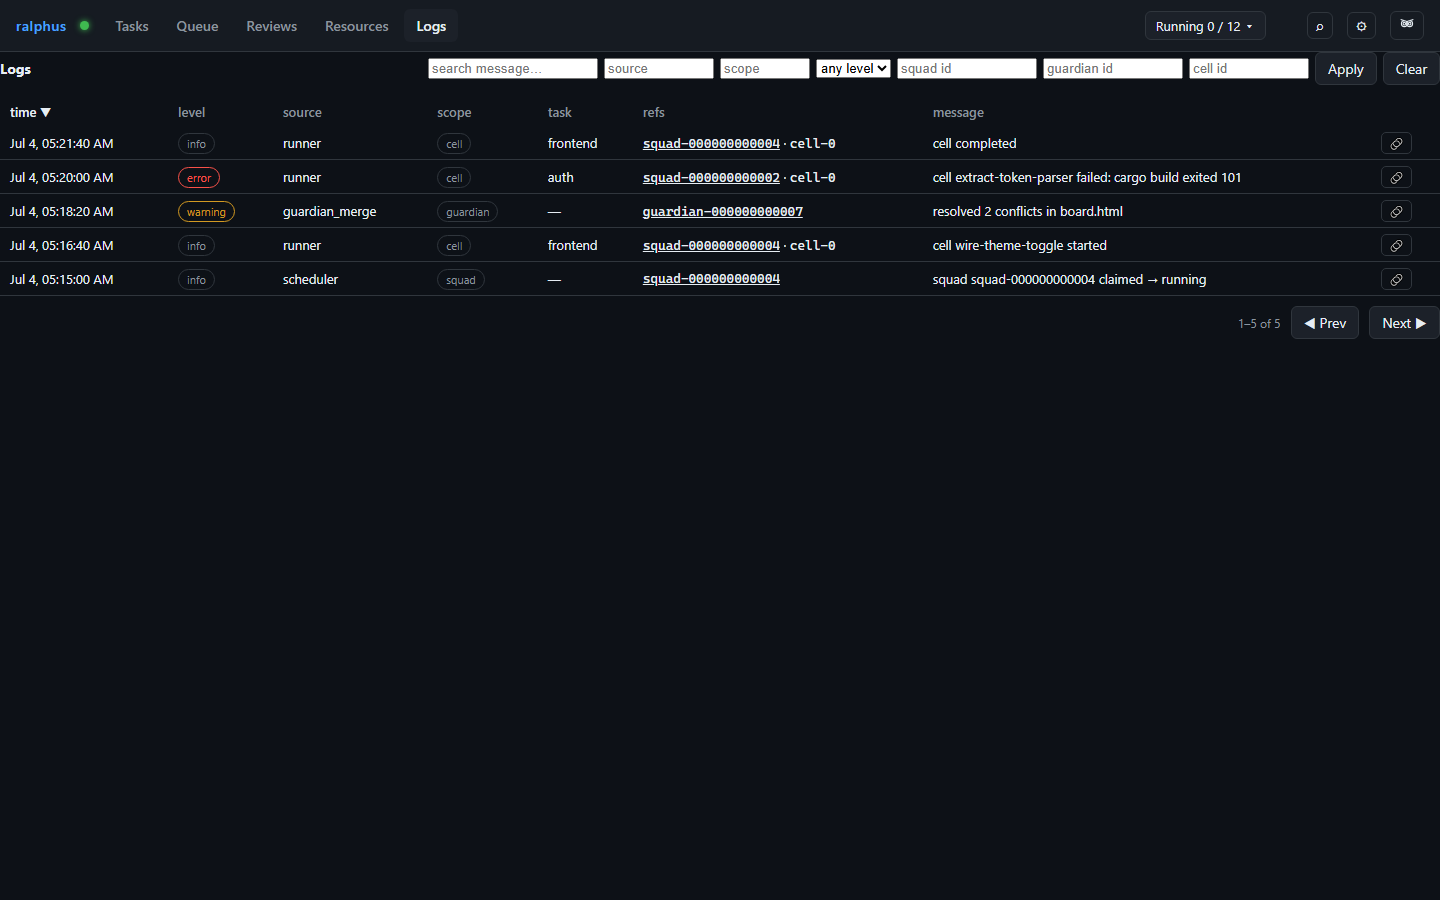
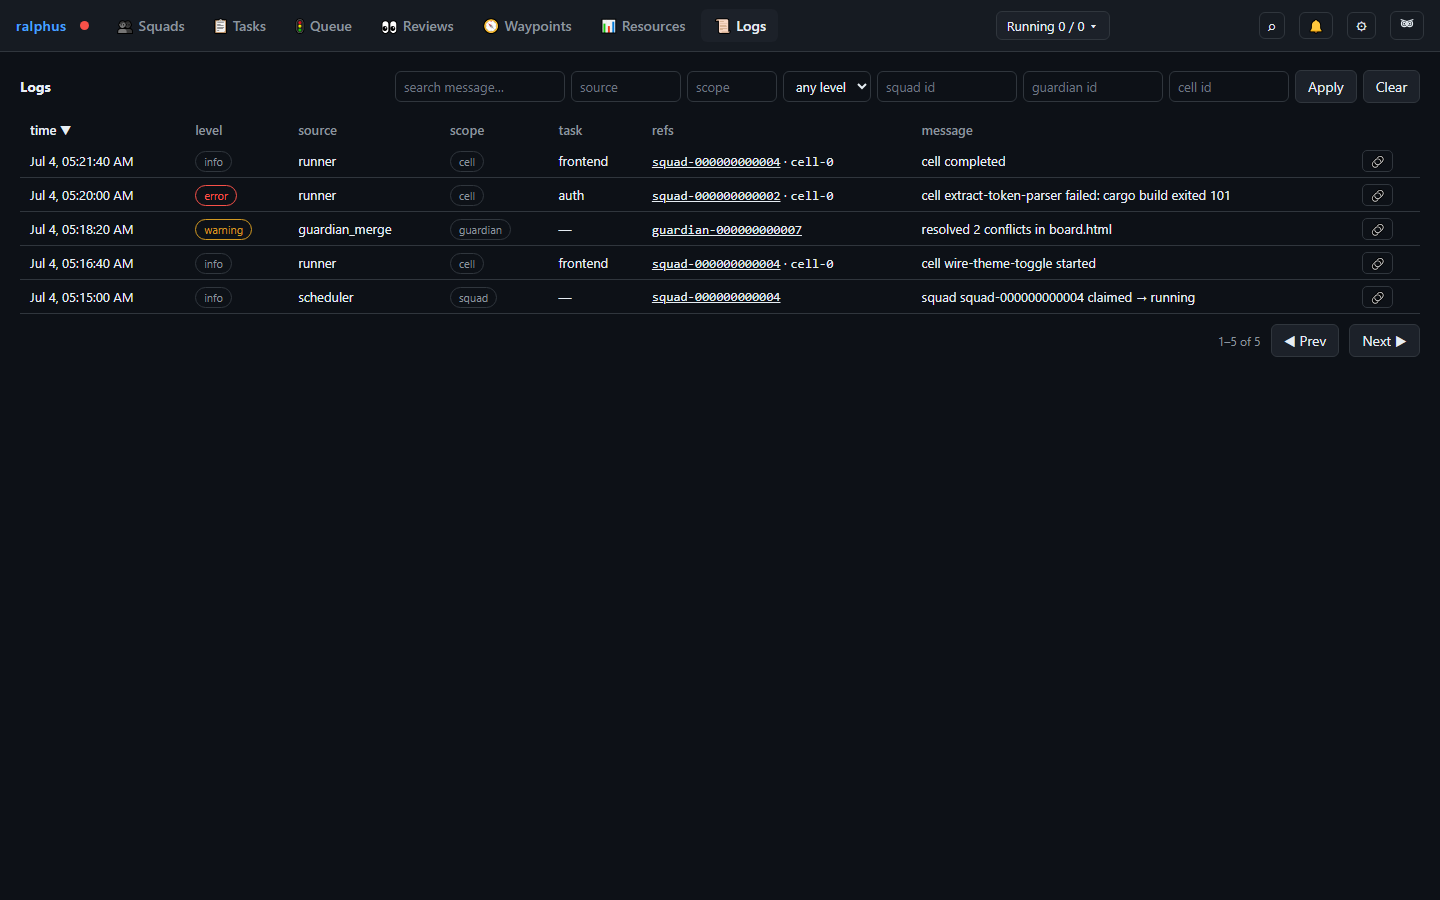
style(board): one shared look for inputs/buttons; document it; regen screenshots
Bare inputs/selects/textareas and class-less or `.primary` buttons fell back to
the browser's white-with-grey-text defaults (Logs filters, Machines, Triage,
Users, Secrets register rows). Add zero-specificity base rules matching the
Tasks tab, give the admin/list pages the shared page gutter, and drop inline
per-element overrides in the Triage tab.

Document the rule in docs/colors.md ("Form controls & buttons") and
librarian/AGENTS.md. Fix docs-screenshot drift (Tasks needs /api/task-index,
Presets selector) and regenerate all screenshots.

diff --git a/librarian/assets/board/75-projects-machines.js b/librarian/assets/board/75-projects-machines.js
@@ -447,7 +447,7 @@ Work submitted against it will fail — fix the machine or deregister the provid
             <td><span class="proj-name">${esc(p.triage_type)}</span></td>
             <td>${p.count}</td>
             <td><div class="row" style="gap:4px">
-              <input type="number" min="1" step="1" class="mono pool-threshold-input" value="${esc(thresholdVal)}" placeholder="none" style="width:70px;background:var(--bg);border:1px solid var(--border);color:var(--text);border-radius:4px;padding:2px 5px;font-size:12px" data-tip="Draining this pool creates a review once it holds this many cells, in threshold-sized batches -- each full batch becomes its own review and a sub-threshold remainder stays pooled. Clear the field and press Preview to see what removing the count-based trigger would do." />
+              <input type="number" min="1" step="1" class="mono pool-threshold-input" value="${esc(thresholdVal)}" placeholder="none" style="width:70px" data-tip="Draining this pool creates a review once it holds this many cells, in threshold-sized batches -- each full batch becomes its own review and a sub-threshold remainder stays pooled. Clear the field and press Preview to see what removing the count-based trigger would do." />
               <button class="btn" style="padding:2px 8px;font-size:11px" data-click="previewPoolThreshold" data-project="${esc(p.project)}" data-triage-type="${esc(p.triage_type)}" data-tip="Preview what confirming this threshold would drain (non-mutating: nothing is persisted, drained, or reviewed until you Confirm).">Preview</button>
             </div>${confirmLine}</td>
             <td><div class="row" style="gap:4px">${drainButton}</div>${drainLine}</td>
@@ -810,11 +810,11 @@ Work submitted against it will fail — fix the machine or deregister the provid
         return `<div style="margin-top:24px;padding-top:12px;border-top:1px solid var(--border)">
             <div style="font-weight:600;margin-bottom:8px" data-tip="Every cell across every squad that has opted into Triage (triage = true) and hasn't been linked to an actual review yet -- decided at submission, before the cell even runs. A cell appears here the moment its Triage type(s) resolve, and drops off once its pool drains into a review.">Candidates (${triageCandidates.length})</div>
             <div class="row" style="gap:8px;flex-wrap:wrap;margin-bottom:8px">
-              <select id="triage-cand-type" onchange="onTriageCandidateTypeFilter(this.value)" style="background:var(--bg);border:1px solid var(--border);color:var(--text);border-radius:4px;padding:2px 5px;font-size:12px" data-tip="Filter the candidate list down to one Triage type.">
+              <select id="triage-cand-type" onchange="onTriageCandidateTypeFilter(this.value)" data-tip="Filter the candidate list down to one Triage type.">
                 <option value="">All types</option>${typeOptions}
               </select>
               <span class="row" id="triage-project-filter">${triageProjectFilterHtml()}</span>
-              <input id="triage-cand-q" type="text" placeholder="filter by task/cell name…" value="${esc(triageCandidateFilters.q)}" oninput="onTriageCandidateNameFilter(this.value)" style="flex:1;min-width:200px;background:var(--bg);border:1px solid var(--border);color:var(--text);border-radius:4px;padding:2px 5px;font-size:12px" data-tip="Filter the candidate list by task or cell name/id." />
+              <input id="triage-cand-q" type="text" placeholder="filter by task/cell name…" value="${esc(triageCandidateFilters.q)}" oninput="onTriageCandidateNameFilter(this.value)" style="flex:1;min-width:200px" data-tip="Filter the candidate list by task or cell name/id." />
             </div>
             ${table}
           </div>`;
@@ -2476,7 +2476,7 @@ Work submitted against it will fail — fix the machine or deregister the provid
                   <td><span class="proj-name">${esc(p.triage_type)}</span></td>
                   <td>${p.count}</td>
                   <td><div class="row" style="gap:4px">
-                    <input type="number" min="1" step="1" class="mono ptm-threshold-input" id="ptm-threshold-${esc(p.triage_type)}" value="${esc(thresholdVal)}" placeholder="none" style="width:70px;background:var(--bg);border:1px solid var(--border);color:var(--text);border-radius:4px;padding:2px 5px;font-size:12px" data-tip="Draining this pool creates a review once it holds this many ${esc(p.triage_type)} cells for ${esc(projectName)}, in threshold-sized batches (each batch its own review; a sub-threshold remainder stays pooled). Clear the field and press Preview to see what removing the count-based trigger would do." />
+                    <input type="number" min="1" step="1" class="mono ptm-threshold-input" id="ptm-threshold-${esc(p.triage_type)}" value="${esc(thresholdVal)}" placeholder="none" style="width:70px" data-tip="Draining this pool creates a review once it holds this many ${esc(p.triage_type)} cells for ${esc(projectName)}, in threshold-sized batches (each batch its own review; a sub-threshold remainder stays pooled). Clear the field and press Preview to see what removing the count-based trigger would do." />
                     <button class="btn" style="padding:2px 8px;font-size:11px" data-click="previewProjectTriageThreshold" data-triage-type="${esc(p.triage_type)}" data-tip="Preview what confirming this threshold would drain (non-mutating: nothing is persisted, drained, or reviewed until you Confirm).">Preview</button>
                   </div>${confirmLine}</td>
                 </tr>`;

diff --git a/librarian/assets/board.css b/librarian/assets/board.css
@@ -58,6 +58,25 @@
       code, .mono { font-family: ui-monospace, "Cascadia Code", Consolas, monospace; }
       button { font: inherit; cursor: pointer; }
 
+      /* Base form controls (docs/colors.md "Form controls & buttons"). Every text-like
+         input, select and textarea reads like the Tasks tab filter box, and every
+         button the board hasn't given its own class reads like `.btn` (`.primary`
+         like `.btn.primary`). Wrapped in :where() so specificity is zero: any
+         component rule or inline style still wins, but a bare control is never the
+         browser's white-with-grey-text default. */
+      :where(input:not([type=checkbox], [type=radio], [type=file], [type=range], [type=color], [type=button], [type=submit])),
+      :where(select),
+      :where(textarea) {
+        background: var(--bg); border: 1px solid var(--border); color: var(--text);
+        border-radius: 6px; padding: 5px 8px; font: inherit; font-size: 13px; }
+      :where(input, select, textarea):where(:focus) { outline: none; border-color: var(--accent); box-shadow: 0 0 0 2px var(--accent-a); }
+      :where(input, textarea)::placeholder { color: var(--faint); }
+      :where(input, select, textarea):where(:disabled) { opacity: 0.55; cursor: not-allowed; }
+      :where(button:not([class])) { border: 1px solid var(--border); background: var(--panel-2); color: var(--text); border-radius: 6px; padding: 5px 12px; }
+      :where(button:not([class])):where(:hover) { border-color: var(--accent); }
+      :where(button.primary:not(.btn)) { background: var(--accent); color: #fff; border: none; border-radius: 6px; padding: 5px 12px; font-weight: 600; }
+      :where(button.primary:not(.btn)):where(:hover) { filter: brightness(1.1); }
+
       header { display: flex; align-items: center; justify-content: space-between;
         padding: 9px 16px; border-bottom: 1px solid var(--border); background: var(--panel); }
       .brand { display: flex; align-items: center; gap: 14px; font-weight: 600; }
@@ -167,6 +186,8 @@
         .presets-layout { grid-template-columns: 1fr; }
         .presets-editor { position: static; order: -1; }
       }
+      /* Admin/list pages share the Projects/Resources/Presets page gutter, so their headings, filter bars and register forms don't sit flush against the window edge. */
+      main#cartographer-page, main#users-page, main#secrets-page, main#agents-page, main#prefs-page, main#machines-page, main#triage-page, main#worktree-retirement-page, main#health-page { height: calc(100vh - 51px); overflow-y: auto; padding: 18px 20px; }
       /* ---- Projects tab (RAL-100/RAL-101) ---- */
       main#projects-page { height: calc(100vh - 51px); overflow-y: auto; padding: 18px 20px; }
       .proj-table { width: 100%; border-collapse: collapse; font-size: 13px; }

diff --git a/cli-py/src/ralphus/docsgen/fixtures.py b/cli-py/src/ralphus/docsgen/fixtures.py
@@ -1800,6 +1800,14 @@ def task_index_squads_from(squads: tuple[Json, ...]) -> tuple[Json, ...]:
     )
 
 
+# The Tasks tab renders from the compact `/api/task-index` board, not `/api/tasks`.
+TASKS_ROUTES["/api/task-index"] = {
+    "daemon": _daemon_status(running=1),
+    "squads": list(task_index_squads_from(TASKS_SQUADS)),
+}
+TASKS_ROUTES["/api/pull-requests/index"] = []
+
+
 def many_projects(n: int = 300) -> tuple[Json, ...]:
     """``n`` registered projects matching ``PROJECTS_ROWS``' shape via ``project()``."""
     return tuple(

diff --git a/cli-py/src/ralphus/docsgen/shots.py b/cli-py/src/ralphus/docsgen/shots.py
@@ -243,7 +243,7 @@ def _presets_overview(page: Page) -> None:
     ):
         _goto(page, base_url, "#/tasks")
         page.evaluate("showTab('presets', true)")
-        page.wait_for_selector("#presets .proj-table")
+        page.wait_for_selector("#presets .preset-card")
         _shoot(page, "presets-overview")
 
 

diff --git a/docs/colors.md b/docs/colors.md
@@ -432,6 +432,34 @@ or resizing a handle elsewhere, match the reference and use `right: 0; width: 12
 or similar to ensure the full hit-area is reachable and not clipped by parent
 `overflow: hidden`.
 
+## Form controls & buttons — one look everywhere
+
+Inputs, selects, textareas and buttons are not a place for per-tab styling. The
+reference is the **Tasks tab** (its filter box and `.btn` buttons), which the
+Squads, Reviews and Queue tabs already match. A new or restyled form — a Logs
+filter bar, a Machines/Triage/Users/Secrets "register" row, a modal field —
+must look like that, not like the browser default (white box, grey text, grey
+button):
+
+| Control | Look | How you get it |
+|---|---|---|
+| Text / number / date input, `select`, `textarea` | `--bg` fill, `1px solid --border`, `--text` text, 6px radius, `5px 8px` padding, `--faint` placeholder; focus = `--accent` border + `0 0 0 2px --accent-a` ring | Automatic: the zero-specificity base rule in `board.css` (right after the global `button` rule). Just write a bare `<input>`. |
+| Secondary button | `--panel-2` fill, `--border` border, `--text`, 6px radius | `class="btn"` (a class-less `<button>` gets the same look from the base rule) |
+| Primary / submit button (Register, Add, Apply-and-save) | `--accent` fill, `#fff` text, no border | `class="btn primary"` (a bare `class="primary"` also works) |
+| Destructive button | `--danger` text and border | `class="btn danger"` |
+| Disabled | 38–55% opacity, `not-allowed` cursor | the `disabled` attribute |
+
+Rules:
+- **Never** give an input or button its own background, border, border-radius or
+  text color — not in a stylesheet and not in an inline `style=`. Inline
+  `width`/`flex`/`min-width` for layout is fine.
+- **Never** restyle these per tab. If the shared look is wrong, change the base
+  rule or `.btn` once and every tab follows.
+- A form row is a flex row (`gap: 8px; flex-wrap: wrap`) of inputs followed by
+  one primary button, like the Tasks toolbar.
+- Checkboxes and radios keep their native control; label them in `--text`/`--muted`.
+- Every control still needs a `data-tip` (see `librarian/AGENTS.md`).
+
 ## Adding a new UI element — checklist
 
 1. Is there an existing semantic role above that fits? Use its variable.
@@ -439,6 +467,8 @@ or similar to ensure the full hit-area is reachable and not clipped by parent
    override if needed), add a row to the palette + a semantic role here, then use it.
 3. Never hardcode a hex value or clone an existing hue's number inline — always go
    through a variable so the palette stays the one place colors are defined.
+4. Adding an input, select, textarea or button? Use the shared look from
+   "Form controls & buttons" above — no per-element background, border or text color.
 
 ## Exception: per-type transcript colors (RAL-563)
 

diff --git a/librarian/AGENTS.md b/librarian/AGENTS.md
@@ -300,5 +300,10 @@ Rules:
 - If no existing semantic role fits, add a new variable in `librarian/assets/board.css`
   (and its light-theme override if needed), document it in `docs/colors.md`,
   *then* use it.
+- Inputs, selects, textareas and buttons must look like the Tasks tab's (white
+  browser-default boxes and grey default buttons are bugs). The base rules in
+  `board.css` give bare controls that look, `.btn` / `.btn.primary` give buttons
+  theirs — don't override background/border/color per tab. See
+  [`docs/colors.md`](../docs/colors.md) "Form controls & buttons".
 - Every new UI element also needs a `data-tip` tooltip — see "UI Tooltip Rule
   (RAL-40)" above.
